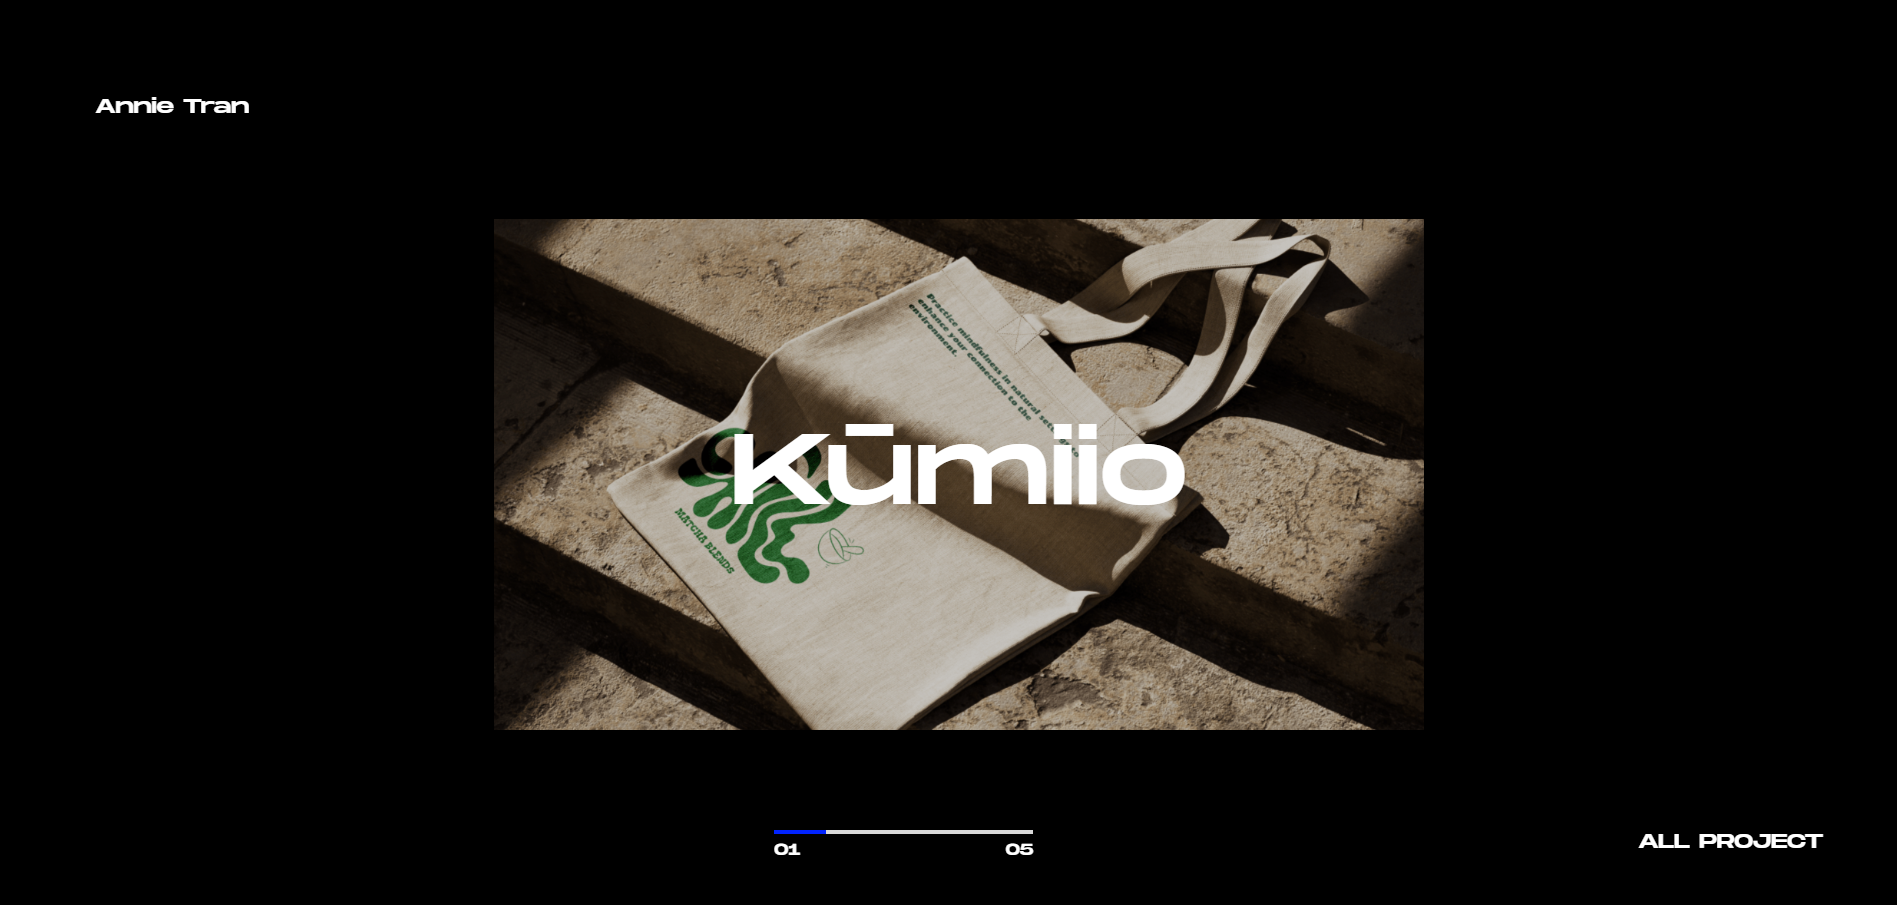
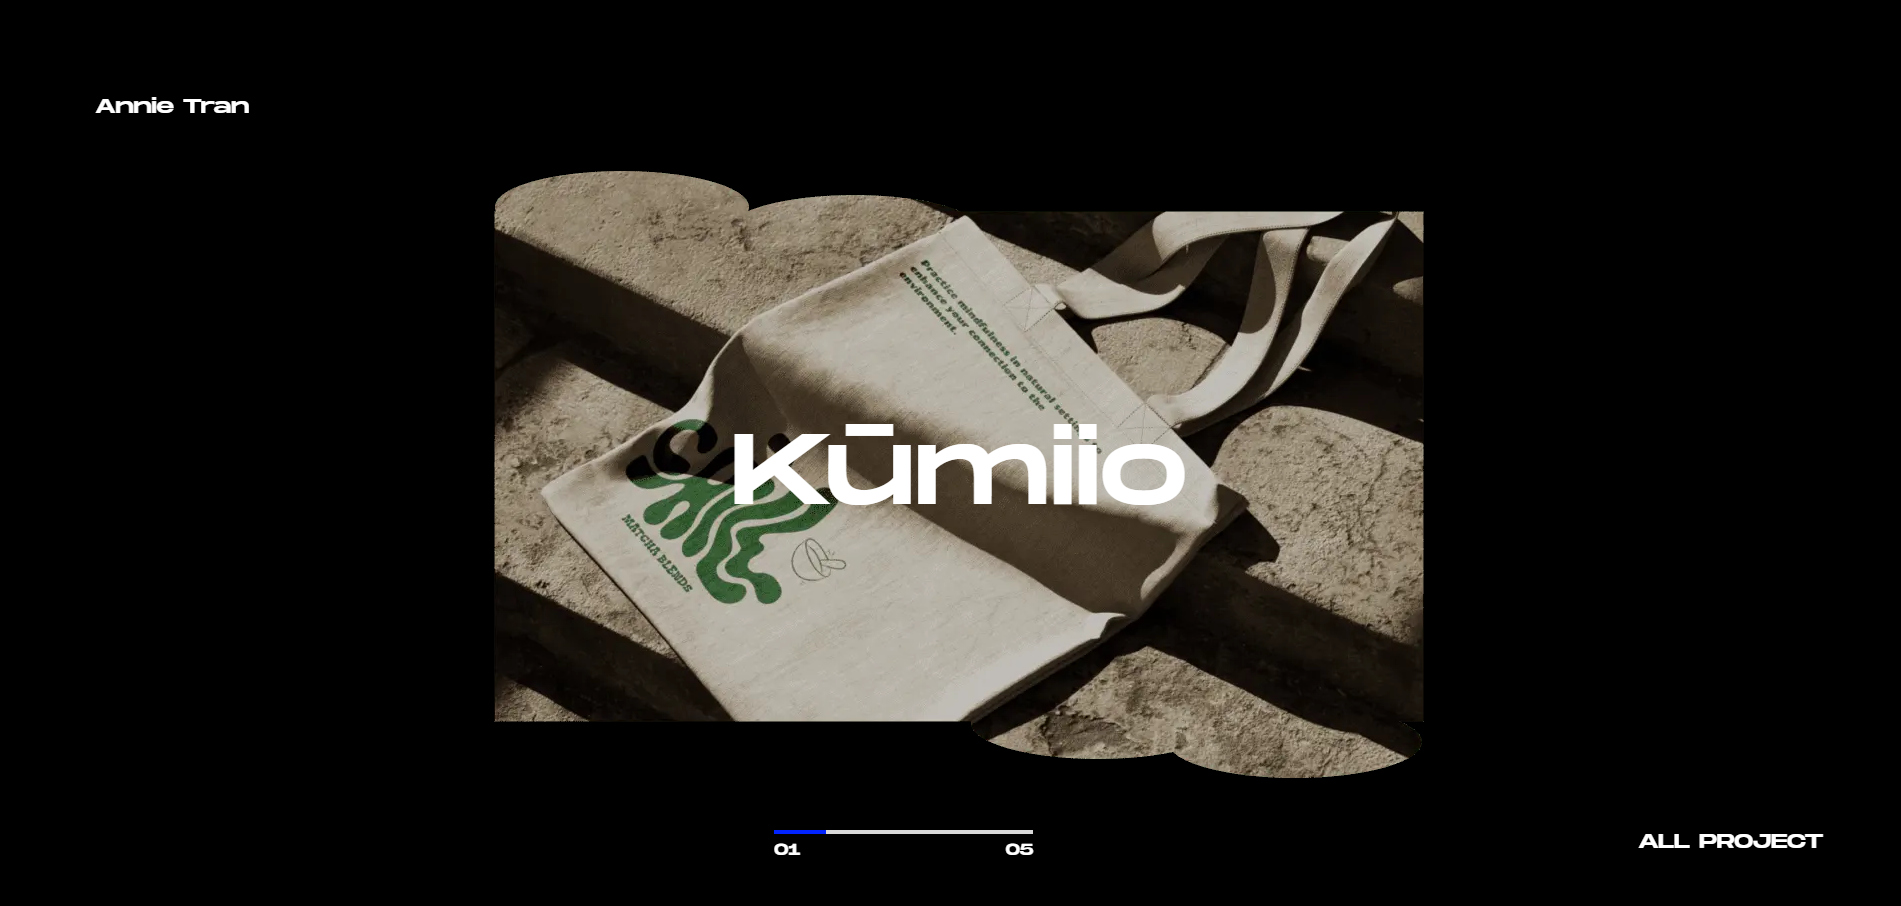
(fix) loadingpage refrech

diff --git a/app/page.tsx b/app/page.tsx
@@ -5,7 +5,9 @@ import ScrollSection from './components/scrollSection';
 import LoadingPage from './components/loadingPage/loadingPage';
 
 export default function Home() {
-  const [loadingComplete, setLoadingComplete] = useState(false);
+  const [loadingComplete, setLoadingComplete] = useState(() => {
+    return !!localStorage.getItem('hasLoaded');
+  });
 
   useEffect(() => {
     const hasLoaded = localStorage.getItem('hasLoaded');

diff --git a/app/project/salamender/page.tsx b/app/project/salamender/page.tsx
@@ -29,6 +29,7 @@ export default function salamender() {
       <Top />
       <div className="hero">
         <h2 className={`${monumentExtendedd.className}`}>Salamender</h2>
+        <span className='border' />
         <p className={`${monumentExtendedd.className}`}>
           Scroll to see the project
         </p>

diff --git a/app/project/marcovasco/page.tsx b/app/project/marcovasco/page.tsx
@@ -25,6 +25,7 @@ export default function kumiio() {
       <Top />
       <div className="hero">
         <h2 className={`${monumentExtendedd.className}`}>Marcovasco</h2>
+        <span className='border' />
         <p className={`${monumentExtendedd.className}`}>
           Scroll to see the project
         </p>

diff --git a/app/project/xeahnort/page.tsx b/app/project/xeahnort/page.tsx
@@ -30,6 +30,7 @@ export default function xeahnort() {
       <Top />
       <div className="hero">
         <h2 className={`${monumentExtendedd.className}`}>Xeahnort</h2>
+        <span className='border' />
         <p className={`${monumentExtendedd.className}`}>
           Scroll to see the project
         </p>

diff --git a/app/project/supermood/page.tsx b/app/project/supermood/page.tsx
@@ -24,6 +24,7 @@ export default function kumiio() {
       <Top />
       <div className="hero">
         <h2 className={`${monumentExtendedd.className}`}>Supermood</h2>
+        <span className='border' />
         <p className={`${monumentExtendedd.className}`}>
           Scroll to see the project
         </p>

diff --git a/app/project/kumiio/page.tsx b/app/project/kumiio/page.tsx
@@ -24,6 +24,7 @@ export default function kumiio() {
       <Top />
       <div className="hero">
         <h2 className={`${monumentExtendedd.className}`}>Kūmiio</h2>
+        <span className='border' />
         <p className={`${monumentExtendedd.className}`}>
           Scroll to see the project
         </p>

diff --git a/app/project/project.css b/app/project/project.css
@@ -225,6 +225,15 @@
   justify-content: center;
 }
 
+.border{
+  width: 240px;
+  height: 50px;
+  gap: 0px;
+  border: 1px solid #FFFFFF;
+  border-radius: 50%;
+  margin-bottom: -70px;
+}
+
 @media (max-width: 430px) {
   .hero p {
     font-size: 16px;
